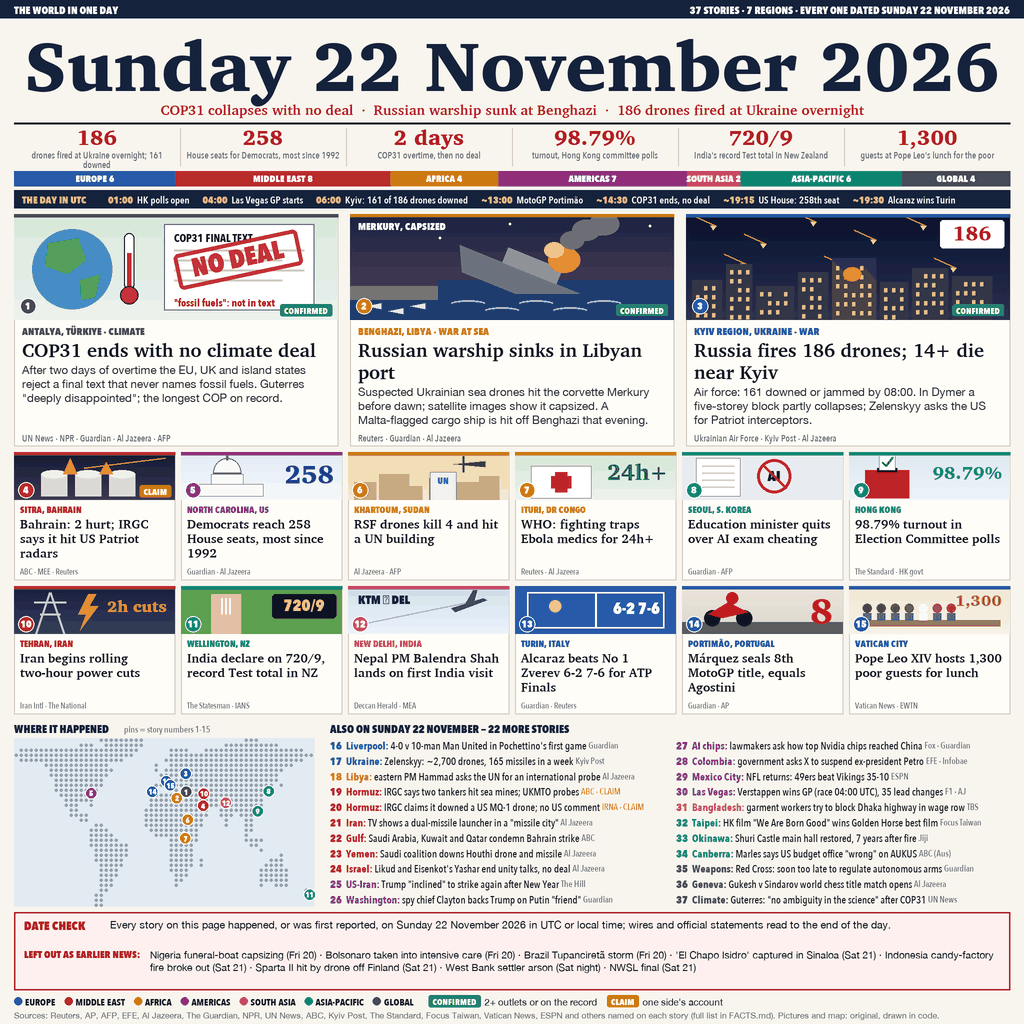
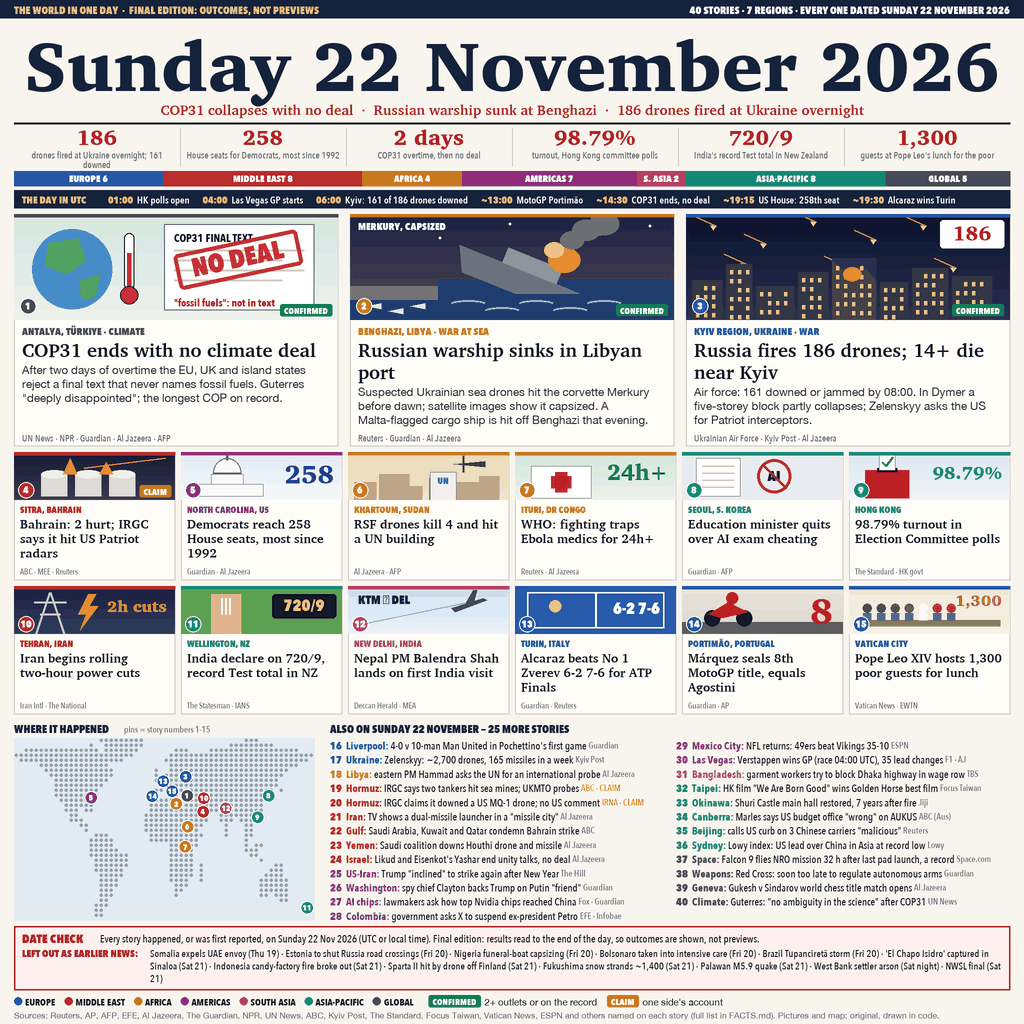
v4: final edition, 40 stories, spread map pins, fuller date check

diff --git a/render.py b/render.py
@@ -186,12 +186,15 @@ BRIEFS = [  # region, place, text, outlet, status
     ('ASIA-PACIFIC', 'Taipei', 'HK film "We Are Born Good" wins Golden Horse best film', 'Focus Taiwan', 'CONFIRMED'),
     ('ASIA-PACIFIC', 'Okinawa', 'Shuri Castle main hall restored, 7 years after fire', 'Jiji', 'CONFIRMED'),
     ('ASIA-PACIFIC', 'Canberra', 'Marles says US budget office "wrong" on AUKUS', 'ABC (Aus)', 'CONFIRMED'),
+    ('ASIA-PACIFIC', 'Beijing', 'calls US curb on 3 Chinese carriers "malicious"', 'Reuters', 'CONFIRMED'),
+    ('ASIA-PACIFIC', 'Sydney', 'Lowy index: US lead over China in Asia at record low', 'Lowy', 'CONFIRMED'),
+    ('GLOBAL', 'Space', 'Falcon 9 flies NRO mission 32 h after last pad launch, a record', 'Space.com', 'CONFIRMED'),
     ('GLOBAL', 'Weapons', 'Red Cross: soon too late to regulate autonomous arms', 'Guardian', 'CONFIRMED'),
     ('GLOBAL', 'Geneva', 'Gukesh v Sindarov world chess title match opens', 'Al Jazeera', 'CONFIRMED'),
     ('GLOBAL', 'Climate', 'Guterres: "no ambiguity in the science" after COP31', 'UN News', 'CONFIRMED'),
 ]
 STORIES = len(LEADS) + len(CARDS) + len(BRIEFS)
-assert STORIES == 37, STORIES
+assert STORIES == 40, STORIES
 counts = {r: 0 for r in REGIONS}
 for s in LEADS + CARDS:
     counts[s['region']] += 1
@@ -200,7 +203,7 @@ for b in BRIEFS:
 
 # ------------------------------------------------------------------ top rail and masthead
 rect(0, 0, W, 18, fill=NAVY)
-text(14, 3.5, 'THE WORLD IN ONE DAY', 'heavy', 10.5, (255, 255, 255))
+text(14, 3.5, 'THE WORLD IN ONE DAY  ·  FINAL EDITION: OUTCOMES, NOT PREVIEWS', 'heavy', 10.5, (240, 200, 100))
 text(W - 14, 3.5, '%d STORIES · 7 REGIONS · EVERY ONE DATED SUNDAY 22 NOVEMBER 2026' % STORIES,
      'heavy', 10.5, (255, 255, 255), 'ra')
 MAST = 'Sunday 22 November 2026'
@@ -229,7 +232,11 @@ x = 14
 for i, (reg, c) in enumerate(REGIONS.items()):
     w = (W - 28) * counts[reg] / STORIES
     rect(x, 171, x + w, 186, fill=c)
-    text(x + w / 2, 172.5, '%s %d' % (reg, counts[reg]), 'heavy', 9.5, (255, 255, 255), 'ma')
+    lab = '%s %d' % (reg, counts[reg])
+    if tw(lab, 'heavy', 9.5) > w - 6:
+        lab = '%s %d' % ({'SOUTH ASIA': 'S. ASIA', 'ASIA-PACIFIC': 'ASIA-PAC'}.get(reg, reg[:4]), counts[reg])
+    assert tw(lab, 'heavy', 9.5) <= w - 4, lab
+    text(x + w / 2, 172.5, lab, 'heavy', 9.5, (255, 255, 255), 'ma')
     x += w
 
 # ------------------------------------------------------------------ UTC strip
@@ -500,7 +507,7 @@ for k, C in enumerate(CARDS):
     text(x + 6, y + 114, C['src'], 'med', 8.5, GREY)
 
 # ------------------------------------------------------------------ map with numbered pins
-MX0, MY0, MW, MH = 14, 738, 300, 168
+MX0, MY0, MW, MH = 14, 738, 300, 182
 text(MX0, 722, 'WHERE IT HAPPENED', 'heavy', 11, NAVY)
 text(MX0 + 110, 723.5, 'pins = story numbers 1-15', 'med', 9, GREY)
 rect(MX0, MY0, MX0 + MW, MY0 + MH, fill=(226, 234, 242))
@@ -541,19 +548,38 @@ for gy in range(2, MH, 5):
     for gx in range(2, MW, 5):
         if mask.getpixel((gx, gy)):
             ell(MX0 + gx, MY0 + gy, 1.5, 1.5, fill=(150, 160, 175))
-for s in LEADS + CARDS:
-    px, py = mp(*s['ll'])
-    ell(px, py, 6, 6, fill=REGIONS[s['region']], outline=(255, 255, 255), width=1)
-    text(px, py + 0.5, str(s['n']), 'heavy', 7.5, (255, 255, 255), 'mm')
+# pins: start at the true spot, push overlapping pins apart, then draw a short leader back to the spot
+pins = [[*mp(*s['ll']), *mp(*s['ll']), s] for s in LEADS + CARDS]
+for _ in range(120):
+    for a in pins:
+        for b in pins:
+            if a is b:
+                continue
+            dx, dy = a[0] - b[0], a[1] - b[1]
+            dist = (dx * dx + dy * dy) ** 0.5
+            if dist < 13.5:
+                if dist < 1e-6:
+                    dx, dy, dist = (1.0, 0.3, 1.0) if a[4]['n'] > b[4]['n'] else (-1.0, -0.3, 1.0)
+                push = (13.5 - dist) / 2
+                a[0] += dx / dist * push
+                a[1] += dy / dist * push
+        a[0] = min(max(a[0], MX0 + 7), MX0 + MW - 7)
+        a[1] = min(max(a[1], MY0 + 7), MY0 + MH - 7)
+for px, py, ox, oy, s in pins:
+    ell(ox, oy, 1.8, 1.8, fill=INK)
+    line([(ox, oy), (px, py)], INK, 0.8)
+for px, py, ox, oy, s in pins:
+    ell(px, py, 6.5, 6.5, fill=REGIONS[s['region']], outline=(255, 255, 255), width=1)
+    text(px, py + 0.5, str(s['n']), 'heavy', 8, (255, 255, 255), 'mm')
 
 # ------------------------------------------------------------------ briefs
 BX = 330
 text(BX, 722, 'ALSO ON SUNDAY 22 NOVEMBER — %d MORE STORIES' % len(BRIEFS), 'heavy', 11, NAVY)
 BCW = (W - 14 - BX - 12) / 2
 for k, (reg, place, body, outlet, status) in enumerate(BRIEFS):
-    col, row = k // 11, k % 11
+    col, row = k // 13, k % 13
     x = BX + col * (BCW + 12)
-    y = 739 + row * 15.4
+    y = 739 + row * 14.2
     c = REGIONS[reg]
     n = 16 + k
     text(x, y, str(n), 'heavy', 10.5, c)
@@ -568,15 +594,16 @@ for k, (reg, place, body, outlet, status) in enumerate(BRIEFS):
     assert xx <= x + BCW + 1, (body, xx - x - BCW)
 
 # ------------------------------------------------------------------ date check and footer
-rect(14, 912, W - 14, 990, fill=(253, 240, 238), outline=RED, width=1.5)
-text(24, 918, 'DATE CHECK', 'heavy', 12, RED)
-para(110, 918.5, 'Every story on this page happened, or was first reported, on Sunday 22 November 2026 in UTC or local '
-     'time; wires and official statements read to the end of the day.', 'reg', 10.5, W - 14 - 120, 13, INK, 2)
-text(24, 948, 'LEFT OUT AS EARLIER NEWS:', 'heavy', 10, RED)
-para(150, 948.5, "Nigeria funeral-boat capsizing (Fri 20) · Bolsonaro taken into intensive care (Fri 20) · Brazil "
-     "Tupanciretã storm (Fri 20) · 'El Chapo Isidro' captured in Sinaloa (Sat 21) · Indonesia candy-factory fire broke "
-     "out (Sat 21) · Sparta II hit by drone off Finland (Sat 21) · West Bank settler arson (Sat night) · NWSL final (Sat 21)",
-     'reg', 10, W - 14 - 160, 12.5, INK, 3)
+rect(14, 926, W - 14, 990, fill=(253, 240, 238), outline=RED, width=1.5)
+text(22, 931, 'DATE CHECK', 'heavy', 12, RED)
+text(100, 932, 'Every story happened, or was first reported, on Sunday 22 Nov 2026 (UTC or local time). Final edition: '
+     'results read to the end of the day, so outcomes are shown, not previews.', 'med', 10.5, INK)
+text(22, 947, 'LEFT OUT AS EARLIER NEWS:', 'heavy', 10, RED)
+para(150, 947, "Somalia expels UAE envoy (Thu 19) · Estonia to shut Russia road crossings (Fri 20) · Nigeria funeral-boat "
+     "capsizing (Fri 20) · Bolsonaro taken into intensive care (Fri 20) · Brazil Tupanciretã storm (Fri 20) · 'El Chapo "
+     "Isidro' captured in Sinaloa (Sat 21) · Indonesia candy-factory fire broke out (Sat 21) · Sparta II hit by drone off "
+     "Finland (Sat 21) · Fukushima snow strands ~1,400 (Sat 21) · Palawan M5.9 quake (Sat 21) · West Bank settler arson "
+     "(Sat night) · NWSL final (Sat 21)", 'med', 10, W - 14 - 156, 12.5, INK, 3)
 x = 14
 y = 996
 for reg, c in REGIONS.items():

diff --git a/FACTS.md b/FACTS.md
@@ -78,6 +78,20 @@ The UN Libya mission's call for an independent investigation was posted early Mo
     C — CNN Español/EFE 2026-11-22 · Infobae 2026-11-22
 39. Guterres: "no ambiguity in the science" as COP31 ends without a pact. C — UN News 1168855 · UN Türkiye
 
+## Added in v4 (40 stories)
+
+40. China: commerce ministry (Sun 22 Nov) calls the FCC order barring China Mobile, China Telecom and China Unicom from
+    US phone-number resources "malicious". C — Free Malaysia Today (Reuters) 2026/11/22 · NST · Manila Times
+41. Asia Power Index 2026 (Lowy Institute, published 22 Nov): US 78.9 v China 73.6, the narrowest gap since 2018.
+    C — Lowy Institute report · EurAsian Times · NewsBytes
+42. SpaceX Falcon 9 launches NROL-136 for the NRO from Vandenberg SLC-4E at 12:23 UTC, 32 h 3 min after the pad's previous
+    launch, its fastest turnaround. C — Space.com · KEYT · Technology.org
+
+Date-check additions (left out as earlier news): Somalia expels the UAE ambassador (Thu 19; Xinhua, Bangkok Post),
+Estonia announces closing road crossings with Russia from 1 Dec (Fri 20; RTE, ERR), ~1,400 stranded by snow in Kitashiobara,
+Fukushima (Sat 21; Bernama, Kyodo via Tribune), M5.9 quake in the Sulu Sea off Palawan (Sat 21, 09:54 UTC; VolcanoDiscovery,
+QuakeMap24). Also left out: Kenya's last Ebola discharge (11 Nov), Sudan army gains in Kordofan (13-17 Nov).
+
 Day in numbers and UTC strip: 186 drones / 161 downed (06:00 UTC = 08:00 Kyiv); HK polls 09:00 HKT = 01:00 UTC;
 Las Vegas GP start 20:00 PST = 04:00 UTC; MotoGP, COP31 close, US House call and ATP final times are marked "~" (approximate,
 from report times). Date check: Bolsonaro was taken into intensive care on Fri 20 Nov (Al Jazeera 2026/11/21), so he is left out.

diff --git a/README.md b/README.md
@@ -4,9 +4,10 @@
 [![rank](https://make.fun/badge/news-image-20261122/GAD2412/world-news-2026-11-22/rank.svg)](https://make.fun/bounty/news-image-20261122/leaderboard?utm_source=github&utm_medium=readme&utm_campaign=news-image-20261122)
 [![reward](https://make.fun/badge/news-image-20261122/GAD2412/world-news-2026-11-22/reward.svg)](https://make.fun/bounty/news-image-20261122?utm_source=github&utm_medium=readme&utm_campaign=news-image-20261122)
 
-One 1024x1024 front page of the world's news on Sunday 22 November 2026: 37 dated stories from 7 regions. Three
-drawn leads (COP31 ends with no deal, a Russian warship sunk at Benghazi, 186 Russian drones over Ukraine), twelve
-drawn cards, a day-in-numbers row, a region bar, a UTC strip, a numbered locator map, 22 one-line briefs each with
+One 1024x1024 front page of the world's news on Sunday 22 November 2026, final edition: 40 dated stories from 7
+regions, with outcomes rather than previews. Three drawn leads (COP31 ends with no deal, a Russian warship sunk at
+Benghazi, 186 Russian drones over Ukraine), twelve drawn cards, a day-in-numbers row, a region bar, a UTC strip, a
+numbered locator map whose pins are spread out with leader lines, 25 one-line briefs each with
 its outlet, CONFIRMED/CLAIM tags, and a date check that names the earlier events left out. Every story is listed with
 its sources in [FACTS.md](FACTS.md); stories that happened on 20 or 21 November were left out.
 
